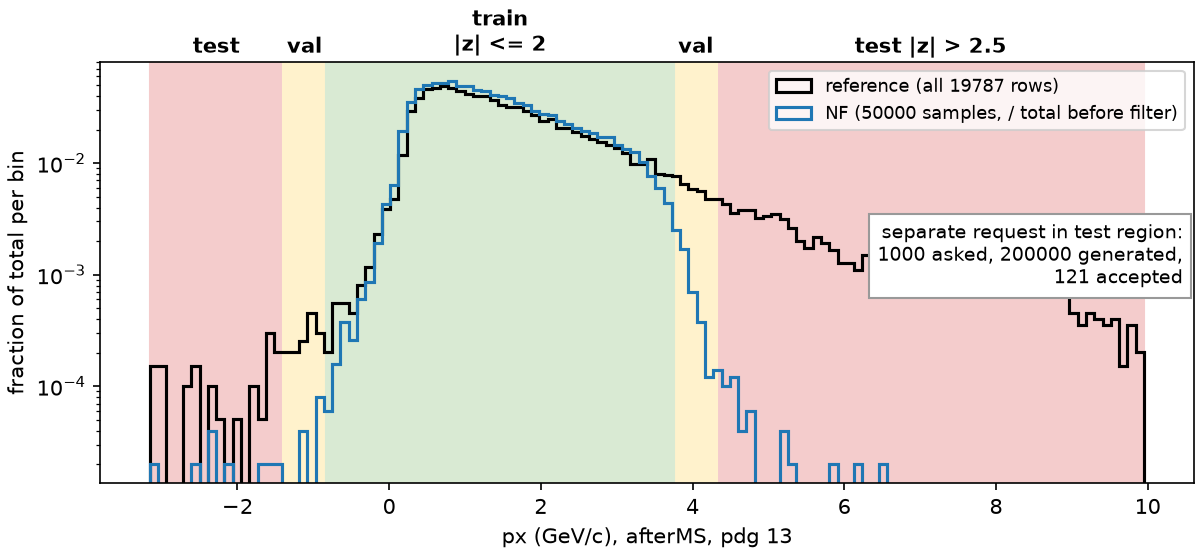
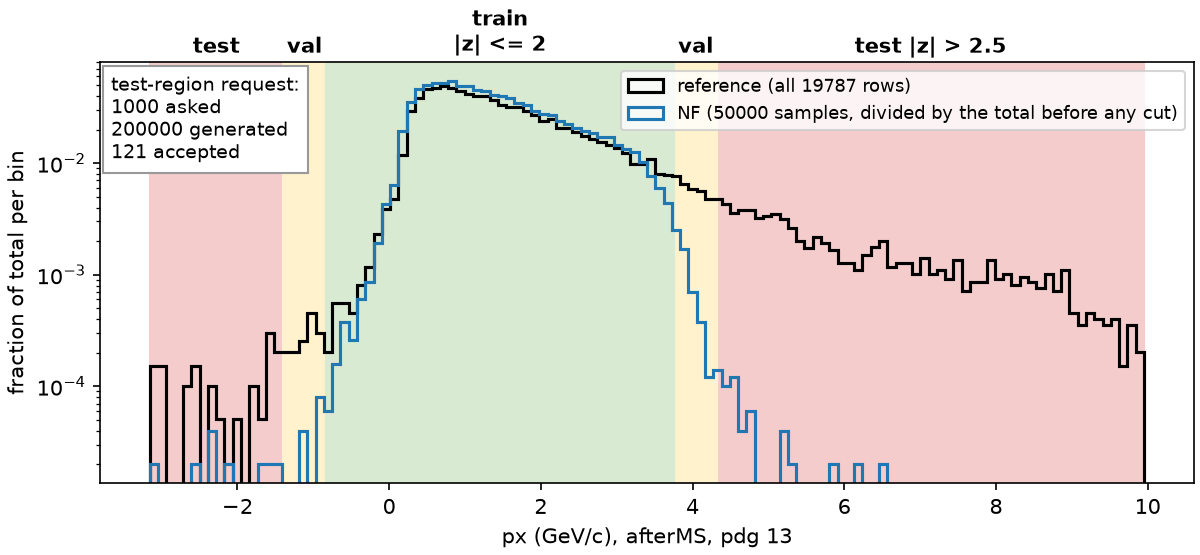
fix(plots): fig3 request box no longer covers the reference tail; fig2 says '1 proposal'
fig3: the test-region request box moves to the empty upper-left corner and the NF legend reads plainly. fig2: plural
only when n != 1 and a readable footer font. All five figures were regenerated from the saved results; the A and B
PDFs differ only by their embedded creation date.

Changed region(s): [[0.7092, 0.3676, 1.0, 0.5514], [0.4933, 0.1225, 0.9867, 0.245], [0.0925, 0.0919, 0.2775, 0.3369]]

diff --git a/plots/fig3_tail_histogram.py b/plots/fig3_tail_histogram.py
@@ -34,13 +34,13 @@ for xc, name in ((med, "train\n|z| <= 2"), (med - 2.25 * sig, "val"), (med + 2.2
 ax.hist(ref, bins, weights=np.full(len(ref), 1 / len(ref)), histtype="step", color="k", lw=1.5,
         label=f"reference (all {len(ref)} rows)")
 ax.hist(gen, bins, weights=np.full(len(gen), 1 / n_gen_total), histtype="step", color="C0", lw=1.5,
-        label=f"NF ({n_gen_total} samples, / total before filter)")
+        label=f"NF ({n_gen_total} samples, divided by the total before any cut)")
 ax.set_yscale("log")
 ax.set_xlabel("px (GeV/c), afterMS, pdg %d" % res["data"]["pdg"])
 ax.set_ylabel("fraction of total per bin")
 r = res["region_request"]
-ax.text(0.99, 0.62, f"separate request in test region:\n{r['requested']} asked, {r['generated']} generated,\n"
-        f"{r['accepted']} accepted", transform=ax.transAxes, ha="right", va="top", fontsize=9,
+ax.text(0.01, 0.97, f"test-region request:\n{r['requested']} asked\n{r['generated']} generated\n"
+        f"{r['accepted']} accepted", transform=ax.transAxes, ha="left", va="top", fontsize=9,
         bbox=dict(fc="white", ec="#999"))
 ax.legend(loc="upper right", fontsize=8.5)
 fig.tight_layout(pad=0.3)

diff --git a/plots/fig2_learning_curve.py b/plots/fig2_learning_curve.py
@@ -39,7 +39,7 @@ note = "" if not a.loop_delivery else f"afterMS px, pdg {res['data']['pdg']}; va
 if a.loop_delivery:
     g = json.loads((a.loop_delivery / "manifest.json").read_text())["generator"]
     note += f"\nFairShip loop tilt: {g['rows']} distinct states, {g.get('distinct_progenitors', '?')} progenitors, " \
-            f"Kish ESS {g['tilt_kish_ess']:.1f} before resampling, {g['config']['n_train']} resampled rows, {g['n']} proposals"
-fig.text(0.01, 0.01, note, fontsize=7)
+            f"Kish ESS {g['tilt_kish_ess']:.1f} before resampling, {g['config']['n_train']} resampled rows, {g['n']} proposal{'s' if g['n'] != 1 else ''}"
+fig.text(0.01, 0.01, note, fontsize=8)
 fig.tight_layout(rect=(0, 0.07 if note else 0, 1, 1))
 fig.savefig(a.out, dpi=150)
